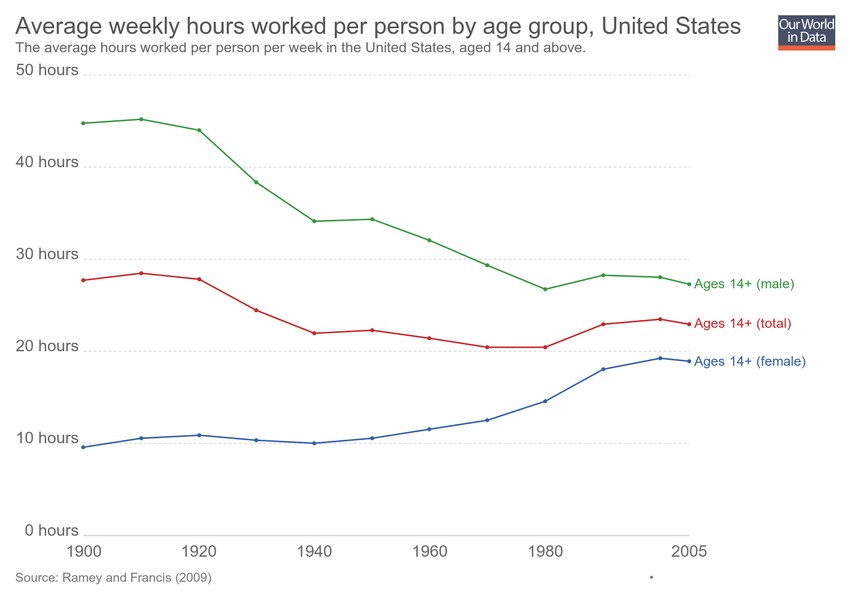
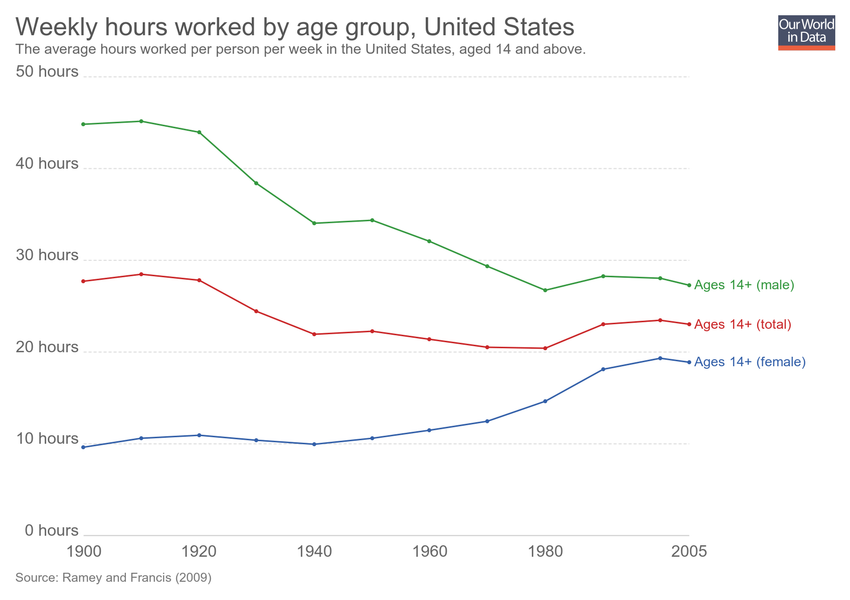
Updating chart average-weekly-hours-worked-per-person-by-age-group-united-states

diff --git a/grapher/average-weekly-hours-worked-per-person-by-age-group-united-states.html b/grapher/average-weekly-hours-worked-per-person-by-age-group-united-states.html
@@ -1,4 +1,4 @@
-<!doctype html><html><head><meta name="viewport" content="width=device-width, initial-scale=1" /><title>Average weekly hours worked per person by age group, United States - Our World in Data</title><meta name="description" content="The average hours worked per person per week in the United States, aged 14 and above." /><link rel="canonical" href="https://ourworldindata.org/grapher/average-weekly-hours-worked-per-person-by-age-group-united-states" /><meta property="fb:app_id" content="1149943818390250" /><meta property="og:url" content="https://ourworldindata.org/grapher/average-weekly-hours-worked-per-person-by-age-group-united-states" /><meta property="og:title" content="Average weekly hours worked per person by age group, United States" /><meta property="og:description" content="The average hours worked per person per week in the United States, aged 14 and above." /><meta property="og:image" content="https://ourworldindata.org/grapher/exports/average-weekly-hours-worked-per-person-by-age-group-united-states.png?v=4" /><meta property="og:image:width" content="850" /><meta property="og:image:height" content="600" /><meta property="og:site_name" content="Our World in Data" /><meta name="twitter:card" content="summary_large_image" /><meta name="twitter:site" content="@OurWorldInData" /><meta name="twitter:creator" content="@OurWorldInData" /><meta name="twitter:title" content="Average weekly hours worked per person by age group, United States" /><meta name="twitter:description" content="The average hours worked per person per week in the United States, aged 14 and above." /><meta name="twitter:image" content="https://ourworldindata.org/grapher/exports/average-weekly-hours-worked-per-person-by-age-group-united-states.png?v=4" /><style>
+<!doctype html><html><head><meta name="viewport" content="width=device-width, initial-scale=1" /><title>Weekly hours worked by age group, United States - Our World in Data</title><meta name="description" content="The average hours worked per person per week in the United States, aged 14 and above." /><link rel="canonical" href="https://ourworldindata.org/grapher/average-weekly-hours-worked-per-person-by-age-group-united-states" /><meta property="fb:app_id" content="1149943818390250" /><meta property="og:url" content="https://ourworldindata.org/grapher/average-weekly-hours-worked-per-person-by-age-group-united-states" /><meta property="og:title" content="Weekly hours worked by age group, United States" /><meta property="og:description" content="The average hours worked per person per week in the United States, aged 14 and above." /><meta property="og:image" content="https://ourworldindata.org/grapher/exports/average-weekly-hours-worked-per-person-by-age-group-united-states.png?v=5" /><meta property="og:image:width" content="850" /><meta property="og:image:height" content="600" /><meta property="og:site_name" content="Our World in Data" /><meta name="twitter:card" content="summary_large_image" /><meta name="twitter:site" content="@OurWorldInData" /><meta name="twitter:creator" content="@OurWorldInData" /><meta name="twitter:title" content="Weekly hours worked by age group, United States" /><meta name="twitter:description" content="The average hours worked per person per week in the United States, aged 14 and above." /><meta name="twitter:image" content="https://ourworldindata.org/grapher/exports/average-weekly-hours-worked-per-person-by-age-group-united-states.png?v=5" /><style>
         html, body {
             height: 100%;
             margin: 0;
@@ -20,8 +20,8 @@
         }
     </style><noscript><style>
                     figure { display: none !important; }
-                </style></noscript><link rel="stylesheet" href="https://ourworldindata.org/grapher/assets/commons.bundle.b9f051796dbbbb7e5139.css" /><link rel="preload" href="/grapher/data/variables/97536.json?v=4" as="fetch" crossorigin /></head><body class="singleChart"><figure data-grapher-src="/grapher/average-weekly-hours-worked-per-person-by-age-group-united-states"></figure><noscript id="fallback"><img src="/grapher/exports/average-weekly-hours-worked-per-person-by-age-group-united-states.svg" /><p>Interactive visualization requires JavaScript</p></noscript><script src="https://cdn.polyfill.io/v2/polyfill.min.js?features=es6,fetch"></script><script src="https://ourworldindata.org/grapher/assets/commons.bundle.b9f051796dbbbb7e5139.js"></script><script src="https://ourworldindata.org/grapher/assets/charts.bundle.b9f051796dbbbb7e5139.js"></script><script>
-        var jsonConfig = {"id":2749,"map":{"projection":"World","colorSchemeLabels":[],"colorSchemeValues":[],"customNumericColors":[],"customCategoryColors":{},"customCategoryLabels":{},"customHiddenCategories":{}},"tab":"chart","slug":"average-weekly-hours-worked-per-person-by-age-group-united-states","type":"LineChart","title":"Average weekly hours worked per person by age group, United States","xAxis":{"scaleType":"linear"},"yAxis":{"max":50,"min":0,"scaleType":"linear"},"version":4,"subtitle":"The average hours worked per person per week in the United States, aged 14 and above.","hasMapTab":false,"stackMode":"absolute","dimensions":[{"display":{"unit":"average weekly hours worked per person","shortUnit":"hours"},"property":"y","variableId":97536}],"entityType":"data","hasChartTab":true,"isPublished":true,"selectedData":[{"index":0,"entityId":37579},{"index":0,"entityId":37578},{"index":0,"entityId":37580}],"addCountryMode":"add-country"};
+                </style></noscript><link rel="stylesheet" href="https://ourworldindata.org/grapher/assets/commons.bundle.b9f051796dbbbb7e5139.css" /><link rel="preload" href="/grapher/data/variables/97536.json?v=5" as="fetch" crossorigin /></head><body class="singleChart"><figure data-grapher-src="/grapher/average-weekly-hours-worked-per-person-by-age-group-united-states"></figure><noscript id="fallback"><img src="/grapher/exports/average-weekly-hours-worked-per-person-by-age-group-united-states.svg" /><p>Interactive visualization requires JavaScript</p></noscript><script src="https://cdn.polyfill.io/v2/polyfill.min.js?features=es6,fetch"></script><script src="https://ourworldindata.org/grapher/assets/commons.bundle.b9f051796dbbbb7e5139.js"></script><script src="https://ourworldindata.org/grapher/assets/charts.bundle.b9f051796dbbbb7e5139.js"></script><script>
+        var jsonConfig = {"id":2749,"map":{"projection":"World","colorSchemeLabels":[],"colorSchemeValues":[],"customNumericColors":[],"customCategoryColors":{},"customCategoryLabels":{},"customHiddenCategories":{}},"tab":"chart","slug":"average-weekly-hours-worked-per-person-by-age-group-united-states","type":"LineChart","title":"Weekly hours worked by age group, United States","xAxis":{"scaleType":"linear"},"yAxis":{"max":50,"min":0,"scaleType":"linear"},"version":5,"subtitle":"The average hours worked per person per week in the United States, aged 14 and above.","hasMapTab":false,"stackMode":"absolute","dimensions":[{"display":{"unit":"average weekly hours worked per person","shortUnit":"hours"},"property":"y","variableId":97536}],"entityType":"data","hasChartTab":true,"isPublished":true,"selectedData":[{"index":0,"entityId":37579},{"index":0,"entityId":37578},{"index":0,"entityId":37580}],"addCountryMode":"add-country"};
         var figure = document.getElementsByTagName("figure")[0];
         try {
             window.App = {};
